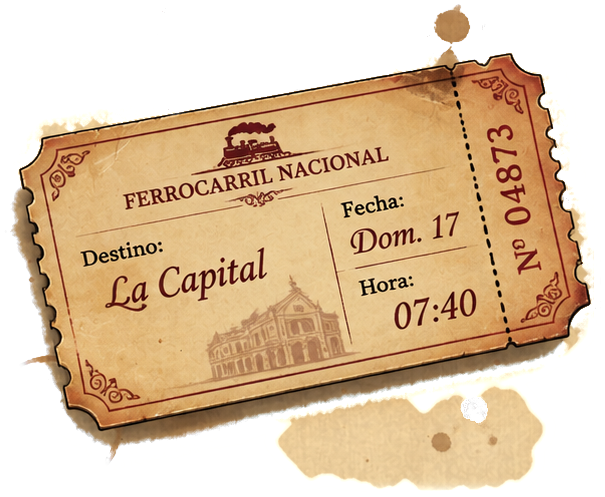
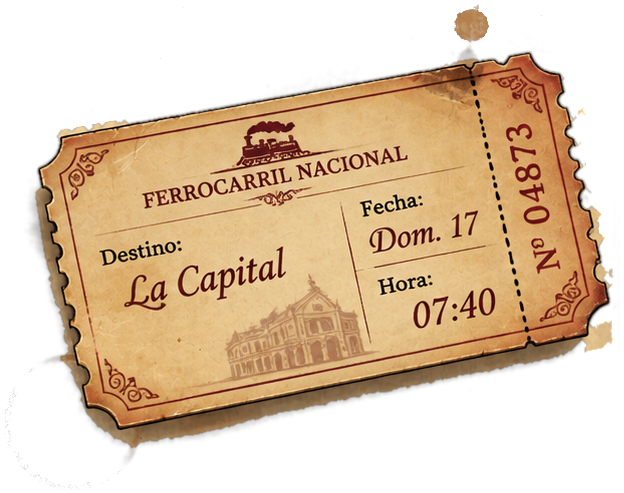
fix(evidencias): limpiar las sombras y manchas de las ilustraciones extraídas
El relleno de huecos sólo actúa sobre el objeto principal: el papel que encierran el objeto, su sombra y unas gotas de café ya no se vuelve opaco. El billete se delimita con un polígono y su sombra se guarda como oscurecimiento puro, sin el grano del papel de la referencia.

Changed region(s): [[0.0, 0.0304, 0.9818, 1.0], [0.7736, 0.0304, 0.8033, 0.0609], [0.7438, 0.0, 0.7736, 0.0304]]

diff --git a/new-game-project/tools/extraer_ilustraciones.py b/new-game-project/tools/extraer_ilustraciones.py
@@ -41,8 +41,12 @@ OUTPUT = ROOT / "assets" / "ui" / "evidencias"
 # t0/t1: diferencia con el papel a partir de la cual el píxel empieza a verse y es opaco.
 # solid: rellenar los huecos del contorno; keep: huecos que deben seguir transparentes (x, y).
 # min_area: manchas sueltas más pequeñas que esto se descartan (motas del papel).
-# reach: lo tenue (sombras, cercos) sólo se conserva hasta esa distancia de lo bien marcado; así
-# las manchas del papel de la referencia no se cuelan pegadas a la sombra del objeto.
+# reach: lo tenue (la sombra) sólo se conserva hasta esa distancia del objeto principal (la mayor
+# mancha bien marcada); más lejos sólo queda lo bien marcado (gotas, cercos de café). Así las
+# manchas del papel de la referencia no se cuelan junto al objeto.
+# outline: polígono (x, y) que contiene el objeto, opaco por dentro; a su alrededor, hasta `reach`,
+# lo que oscurece el papel es su sombra y se guarda como tinta de sombra. Para objetos del color
+# del papel sobre un papel muy manchado (el billete).
 # rough: diferencia que marca qué no es papel al modelar el pergamino.
 # exclude: rectángulos (x0, y0, x1, y1) de la interfaz que asoman en el recuadro (el final del
 # título, su subrayado rojo, letras de la descripción) y nunca forman parte de la ilustración.
@@ -67,7 +71,9 @@ ITEMS = {
     },
     "billete_tren": {
         "ref": "billete_tren.png", "box": (815, 250, 1455, 755),
-        "t0": 12.0, "t1": 40.0, "solid": True, "min_area": 160, "reach": 16,
+        "t0": 12.0, "t1": 40.0, "solid": True, "min_area": 160, "reach": 18,
+        # Polígono que contiene el billete (sin su sombra).
+        "outline": [(852, 390), (1402, 296), (1452, 600), (902, 716)],
         "exclude": [(800, 240, 972, 332), (800, 332, 852, 640)],
     },
     "libro_bodega": {
@@ -90,6 +96,8 @@ ITEMS = {
 }
 
 MARGIN = 48
+# Tinta de las sombras proyectadas (ver `reach`).
+SHADOW_INK = np.array([34.0, 22.0, 12.0])
 
 
 def push_pull(color: np.ndarray, weight: np.ndarray) -> np.ndarray:
@@ -200,6 +208,34 @@ def flat_ink(image: np.ndarray, paper: np.ndarray, diff: np.ndarray, inner: np.n
     return alpha, alpha[..., None] * colour + (1.0 - alpha[..., None]) * paper
 
 
+def outline_object(image: np.ndarray, paper: np.ndarray, diff: np.ndarray, alpha: np.ndarray, region: np.ndarray, cfg: dict) -> tuple:
+    """Objeto macizo dentro de `region` (su polígono aproximado), opaco por dentro, con su sombra
+    alrededor como oscurecimiento puro. Fuera del objeto sólo cuenta lo que oscurece el papel
+    (sombra, gotas): lo que lo aclara es papel de la referencia mal modelado. Devuelve la opacidad
+    y el peso de la tinta de sombra."""
+    shape = diff.shape
+    body = ndimage.binary_closing((alpha > 0.45) & region, iterations=3) & region
+    labels, count = ndimage.label(body)
+    if not count:
+        return alpha, None
+    areas = ndimage.sum(np.ones(shape), labels, index=np.arange(1, count + 1))
+    body = ndimage.binary_fill_holes(labels == int(np.argmax(areas)) + 1)
+    body = ndimage.binary_erosion(body, iterations=1)
+    inside = ndimage.gaussian_filter(body.astype(float), 0.8)
+    near = ndimage.gaussian_filter(ndimage.binary_dilation(body, iterations=cfg["reach"]).astype(float), 4.0)
+    darker = paper.mean(axis=-1) - image.mean(axis=-1)
+    shade = np.clip(darker / np.maximum(paper.mean(axis=-1) - SHADOW_INK.mean(), 1.0), 0.0, 0.8)
+    shade = ndimage.gaussian_filter(shade, 1.2) * near
+    far = smoothstep(30.0, 56.0, darker) * (1.0 - near)
+    labels, count = ndimage.label(far > 0.12)
+    if count:
+        areas = ndimage.sum(np.ones(shape), labels, index=np.arange(1, count + 1))
+        far[np.isin(labels, np.where(areas < cfg["min_area"])[0] + 1)] = 0.0
+    outside = 1.0 - inside
+    result = inside + np.maximum(shade, far) * outside
+    return result, np.where(shade > far, outside, 0.0)
+
+
 def extract(item_id: str, cfg: dict) -> None:
     source = np.asarray(Image.open(REFERENCES / cfg["ref"]).convert("RGB")).astype(float)
     h, w, _ = source.shape
@@ -228,10 +264,16 @@ def extract(item_id: str, cfg: dict) -> None:
         alpha, image = flat_ink(image, paper, diff, inner, cfg)
     else:
         alpha = smoothstep(cfg["t0"], cfg["t1"], diff)
-        if "reach" in cfg:
-            strong = ndimage.binary_opening(diff > 48.0, iterations=1)
-            near = ndimage.binary_dilation(strong, iterations=cfg["reach"])
-            alpha *= ndimage.gaussian_filter(near.astype(float), 4.0)
+        if "reach" in cfg and not cfg.get("outline"):
+            strong = ndimage.binary_opening(diff > 48.0, iterations=1) & inner
+            labels, count = ndimage.label(strong)
+            if count:
+                areas = ndimage.sum(np.ones(shape), labels, index=np.arange(1, count + 1))
+                main_body = labels == int(np.argmax(areas)) + 1
+                main_body = ndimage.binary_fill_holes(ndimage.binary_closing(main_body, iterations=4))
+                near = ndimage.gaussian_filter(ndimage.binary_dilation(main_body, iterations=cfg["reach"]).astype(float), 4.0)
+                far = smoothstep(30.0, 56.0, diff)
+                alpha = alpha * near + far * (1.0 - near)
 
     # Motas sueltas fuera.
     labels, count = ndimage.label(alpha > 0.12)
@@ -240,8 +282,18 @@ def extract(item_id: str, cfg: dict) -> None:
         small = np.isin(labels, np.where(areas < cfg["min_area"])[0] + 1)
         alpha[small] = 0.0
 
-    if cfg.get("solid"):
+    shadow_weight = None
+    if cfg.get("outline"):
+        region = polygon_mask(shape, [(x - cx0, y - cy0) for x, y in cfg["outline"]])
+        alpha, shadow_weight = outline_object(image, paper, diff, alpha, region, cfg)
+    elif cfg.get("solid"):
+        # Sólo los huecos del objeto principal: el papel que encierran el objeto, su sombra y
+        # unas gotas de café sigue siendo papel.
         body = ndimage.binary_closing(alpha > 0.45, iterations=3)
+        labels, count = ndimage.label(body)
+        if count:
+            areas = ndimage.sum(np.ones(shape), labels, index=np.arange(1, count + 1))
+            body = labels == int(np.argmax(areas)) + 1
         filled = ndimage.binary_fill_holes(body)
         holes = filled & ~body
         hole_labels, _ = ndimage.label(holes)
@@ -263,6 +315,8 @@ def extract(item_id: str, cfg: dict) -> None:
     safe = np.maximum(alpha, 1e-3)[..., None]
     fore = np.clip((image - (1.0 - alpha[..., None]) * paper) / safe, 0.0, 255.0)
     fore = np.where(alpha[..., None] > 0.004, fore, paper)
+    if shadow_weight is not None:
+        fore = fore * (1.0 - shadow_weight[..., None]) + SHADOW_INK * shadow_weight[..., None]
 
     ys, xs = np.where(alpha > 0.01)
     pad = 4
